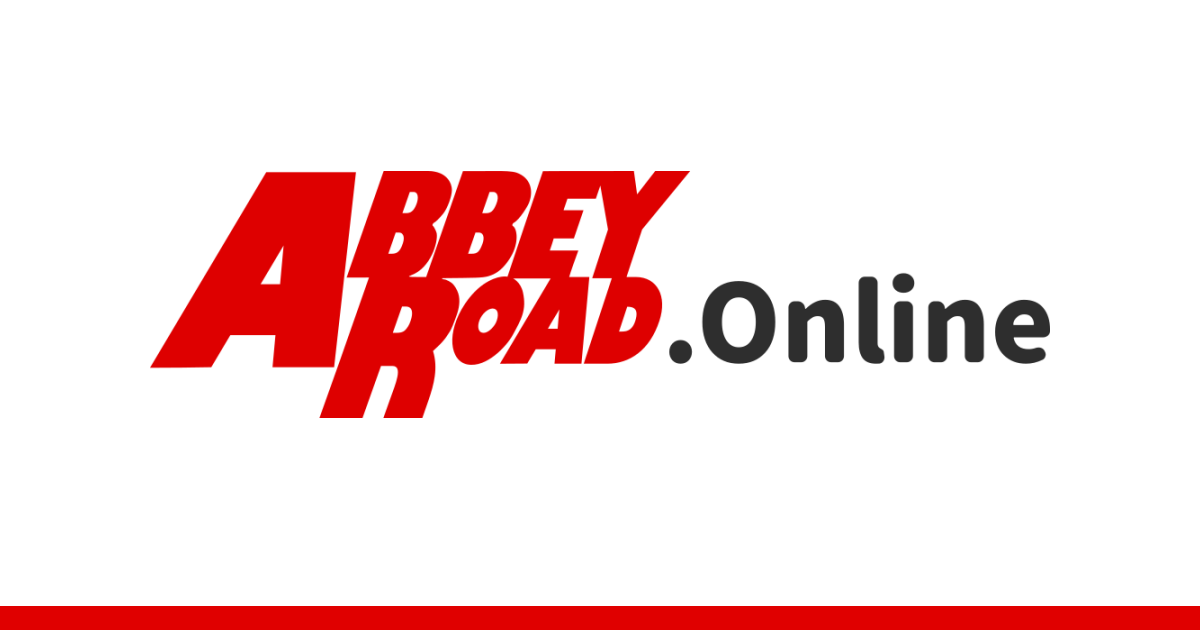
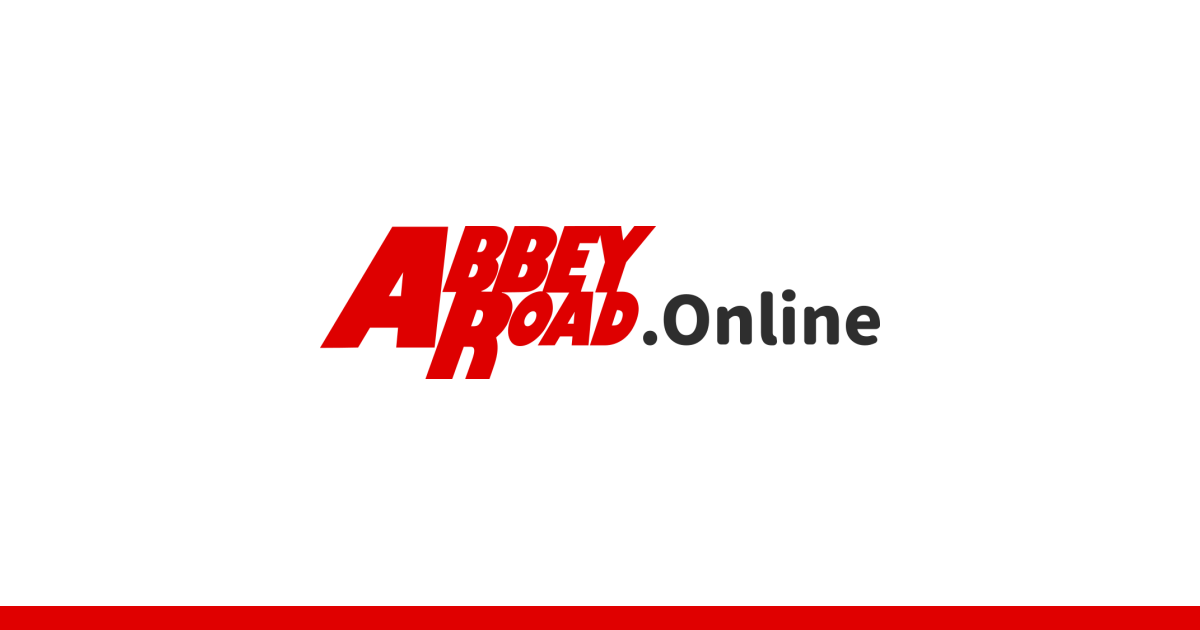
SNS のカード画像を、LINE の正方形の切り抜きでもロゴが切れないようにする ・assets/og.png: 1200×630 のまま、ロゴを真ん中の 630×630 に収まる幅（560px）にする ・og:image を og.png?v=2 に（SNS が古い画像を覚えているので URL を変える）

Changed region(s): [[0.1233, 0.2714, 0.8942, 0.6635]]

diff --git a/v3/partials/header.php b/v3/partials/header.php
@@ -37,7 +37,7 @@ $nav = [
     <meta property="og:title" content="<?= h(APP_NAME) ?>">
     <meta property="og:description" content="<?= h(APP_DESCRIPTION) ?>">
     <meta property="og:url" content="<?= h(APP_URL) ?>">
-    <meta property="og:image" content="<?= h(APP_URL) ?>assets/og.png">
+    <meta property="og:image" content="<?= h(APP_URL) ?>assets/og.png?v=2"><!-- 画像を変えたら数字を上げる（SNS は同じ URL の画像を長く覚えている） -->
     <meta property="og:image:width" content="1200">
     <meta property="og:image:height" content="630">
     <meta property="og:locale" content="ja_JP">
